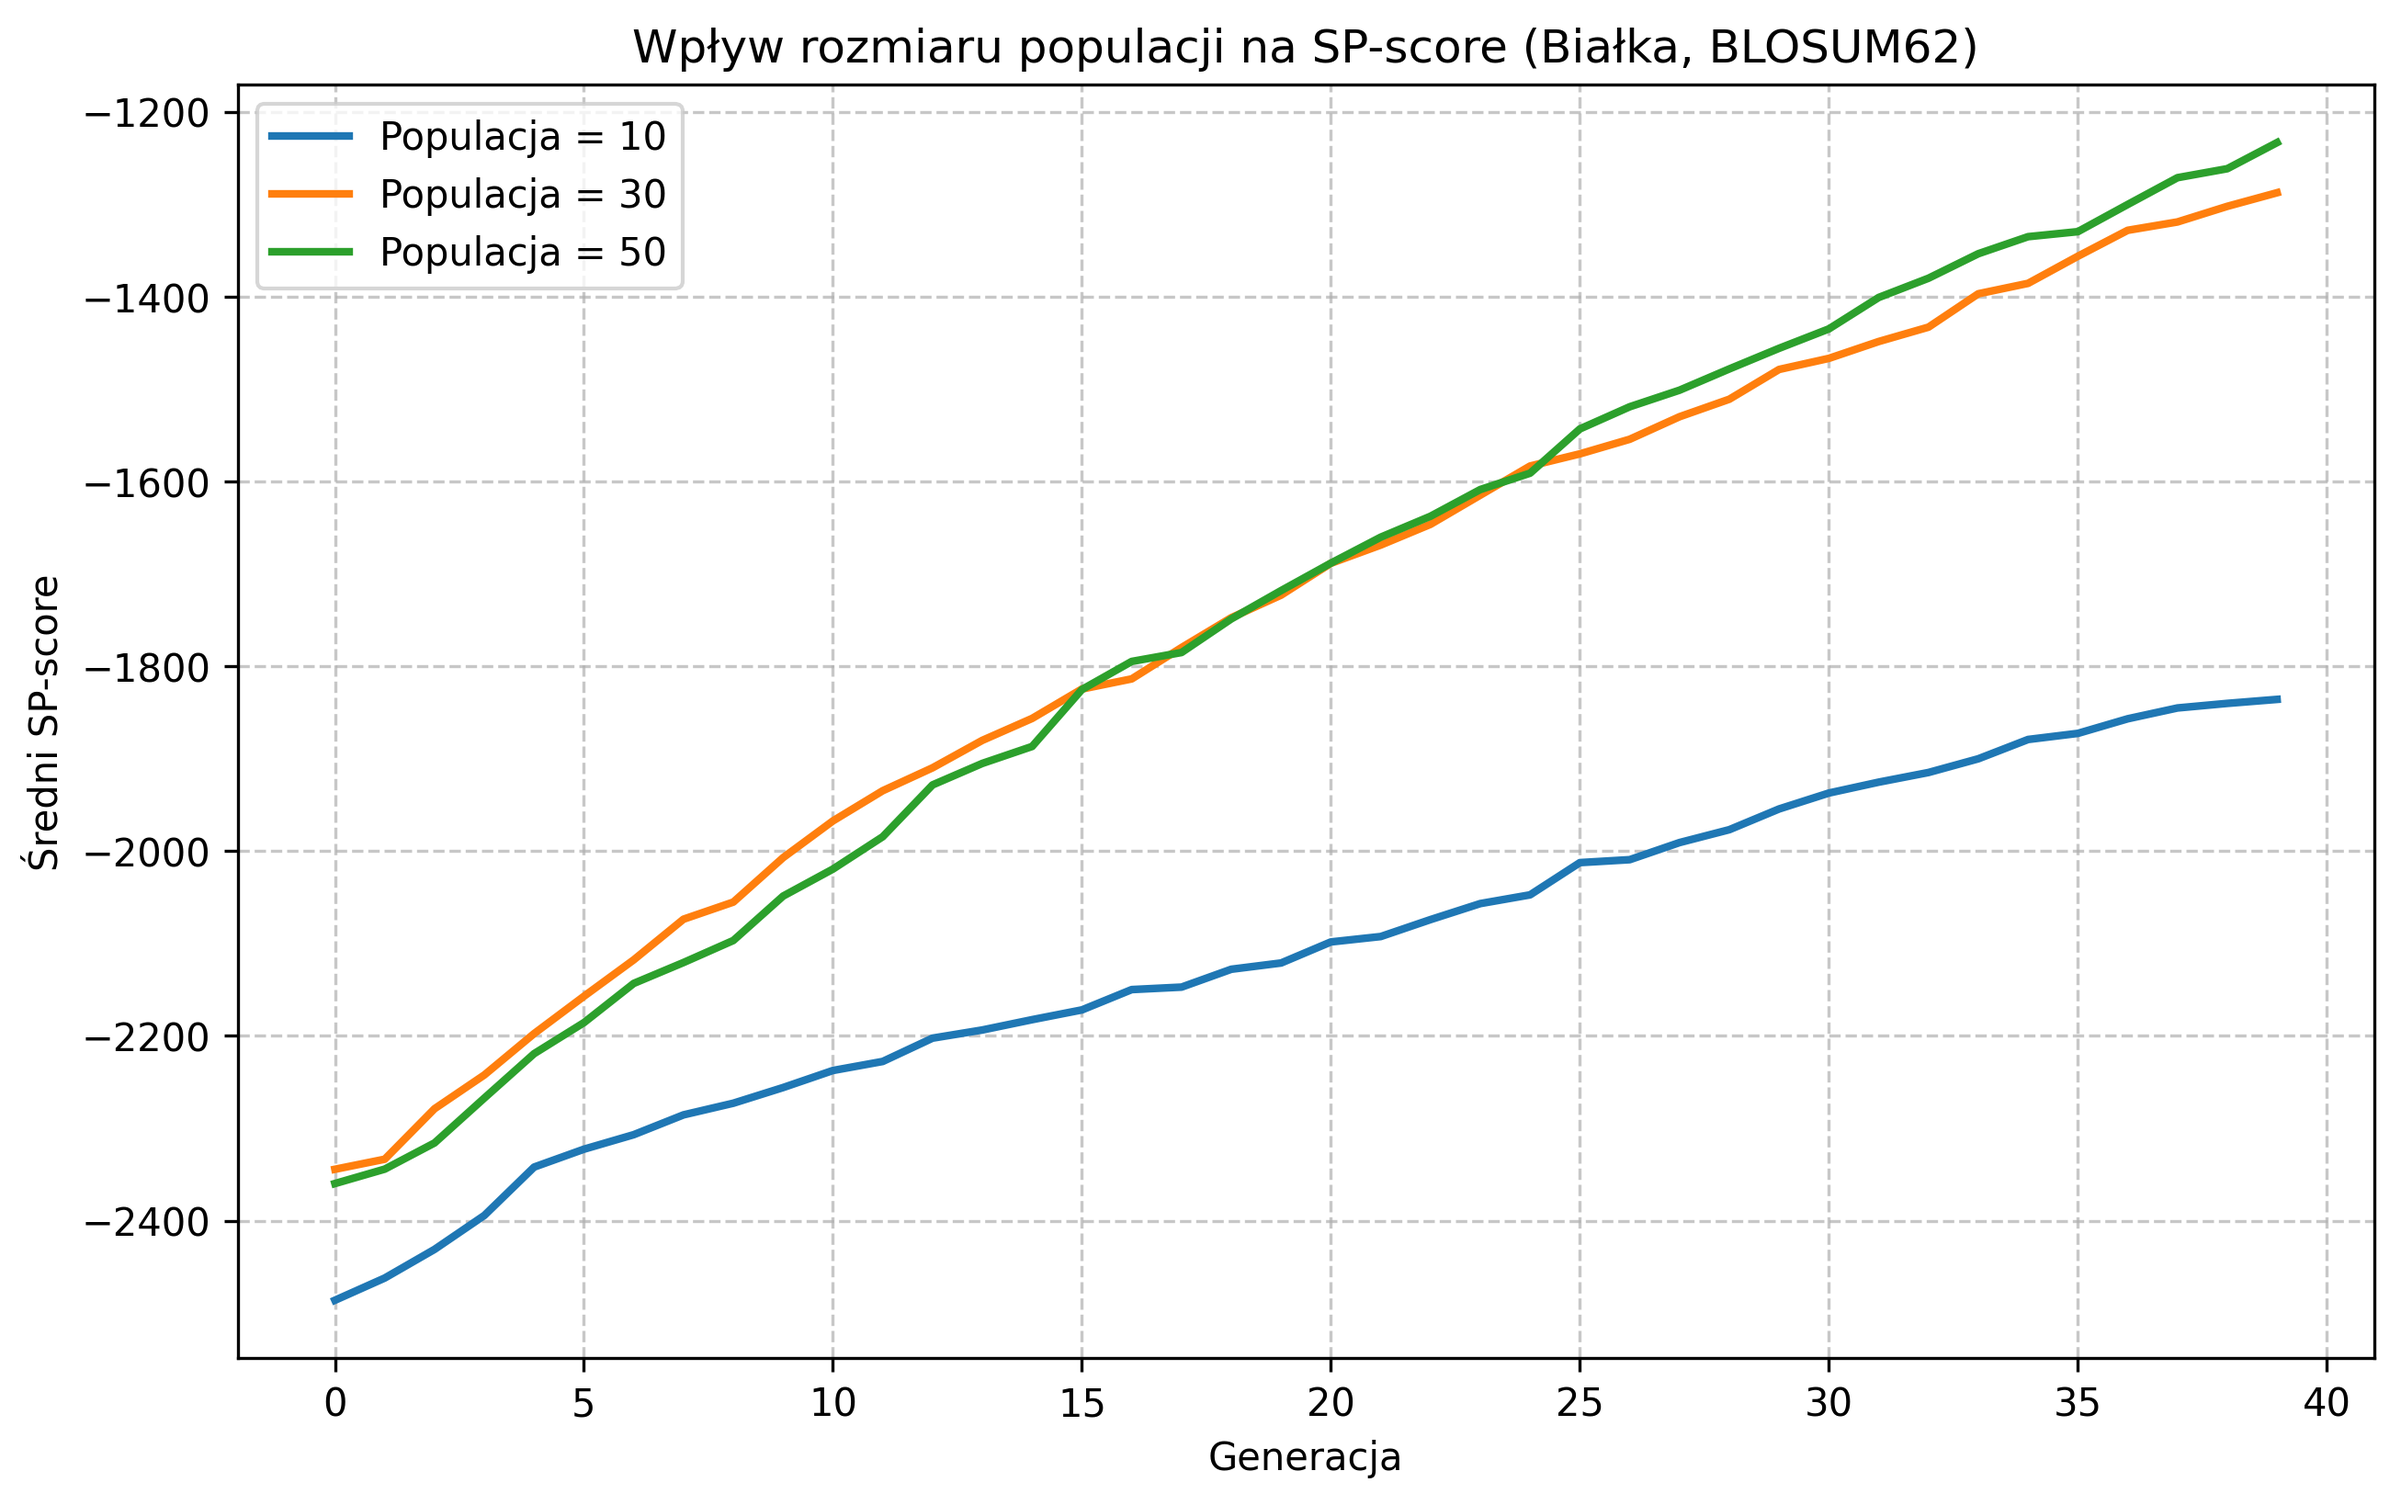
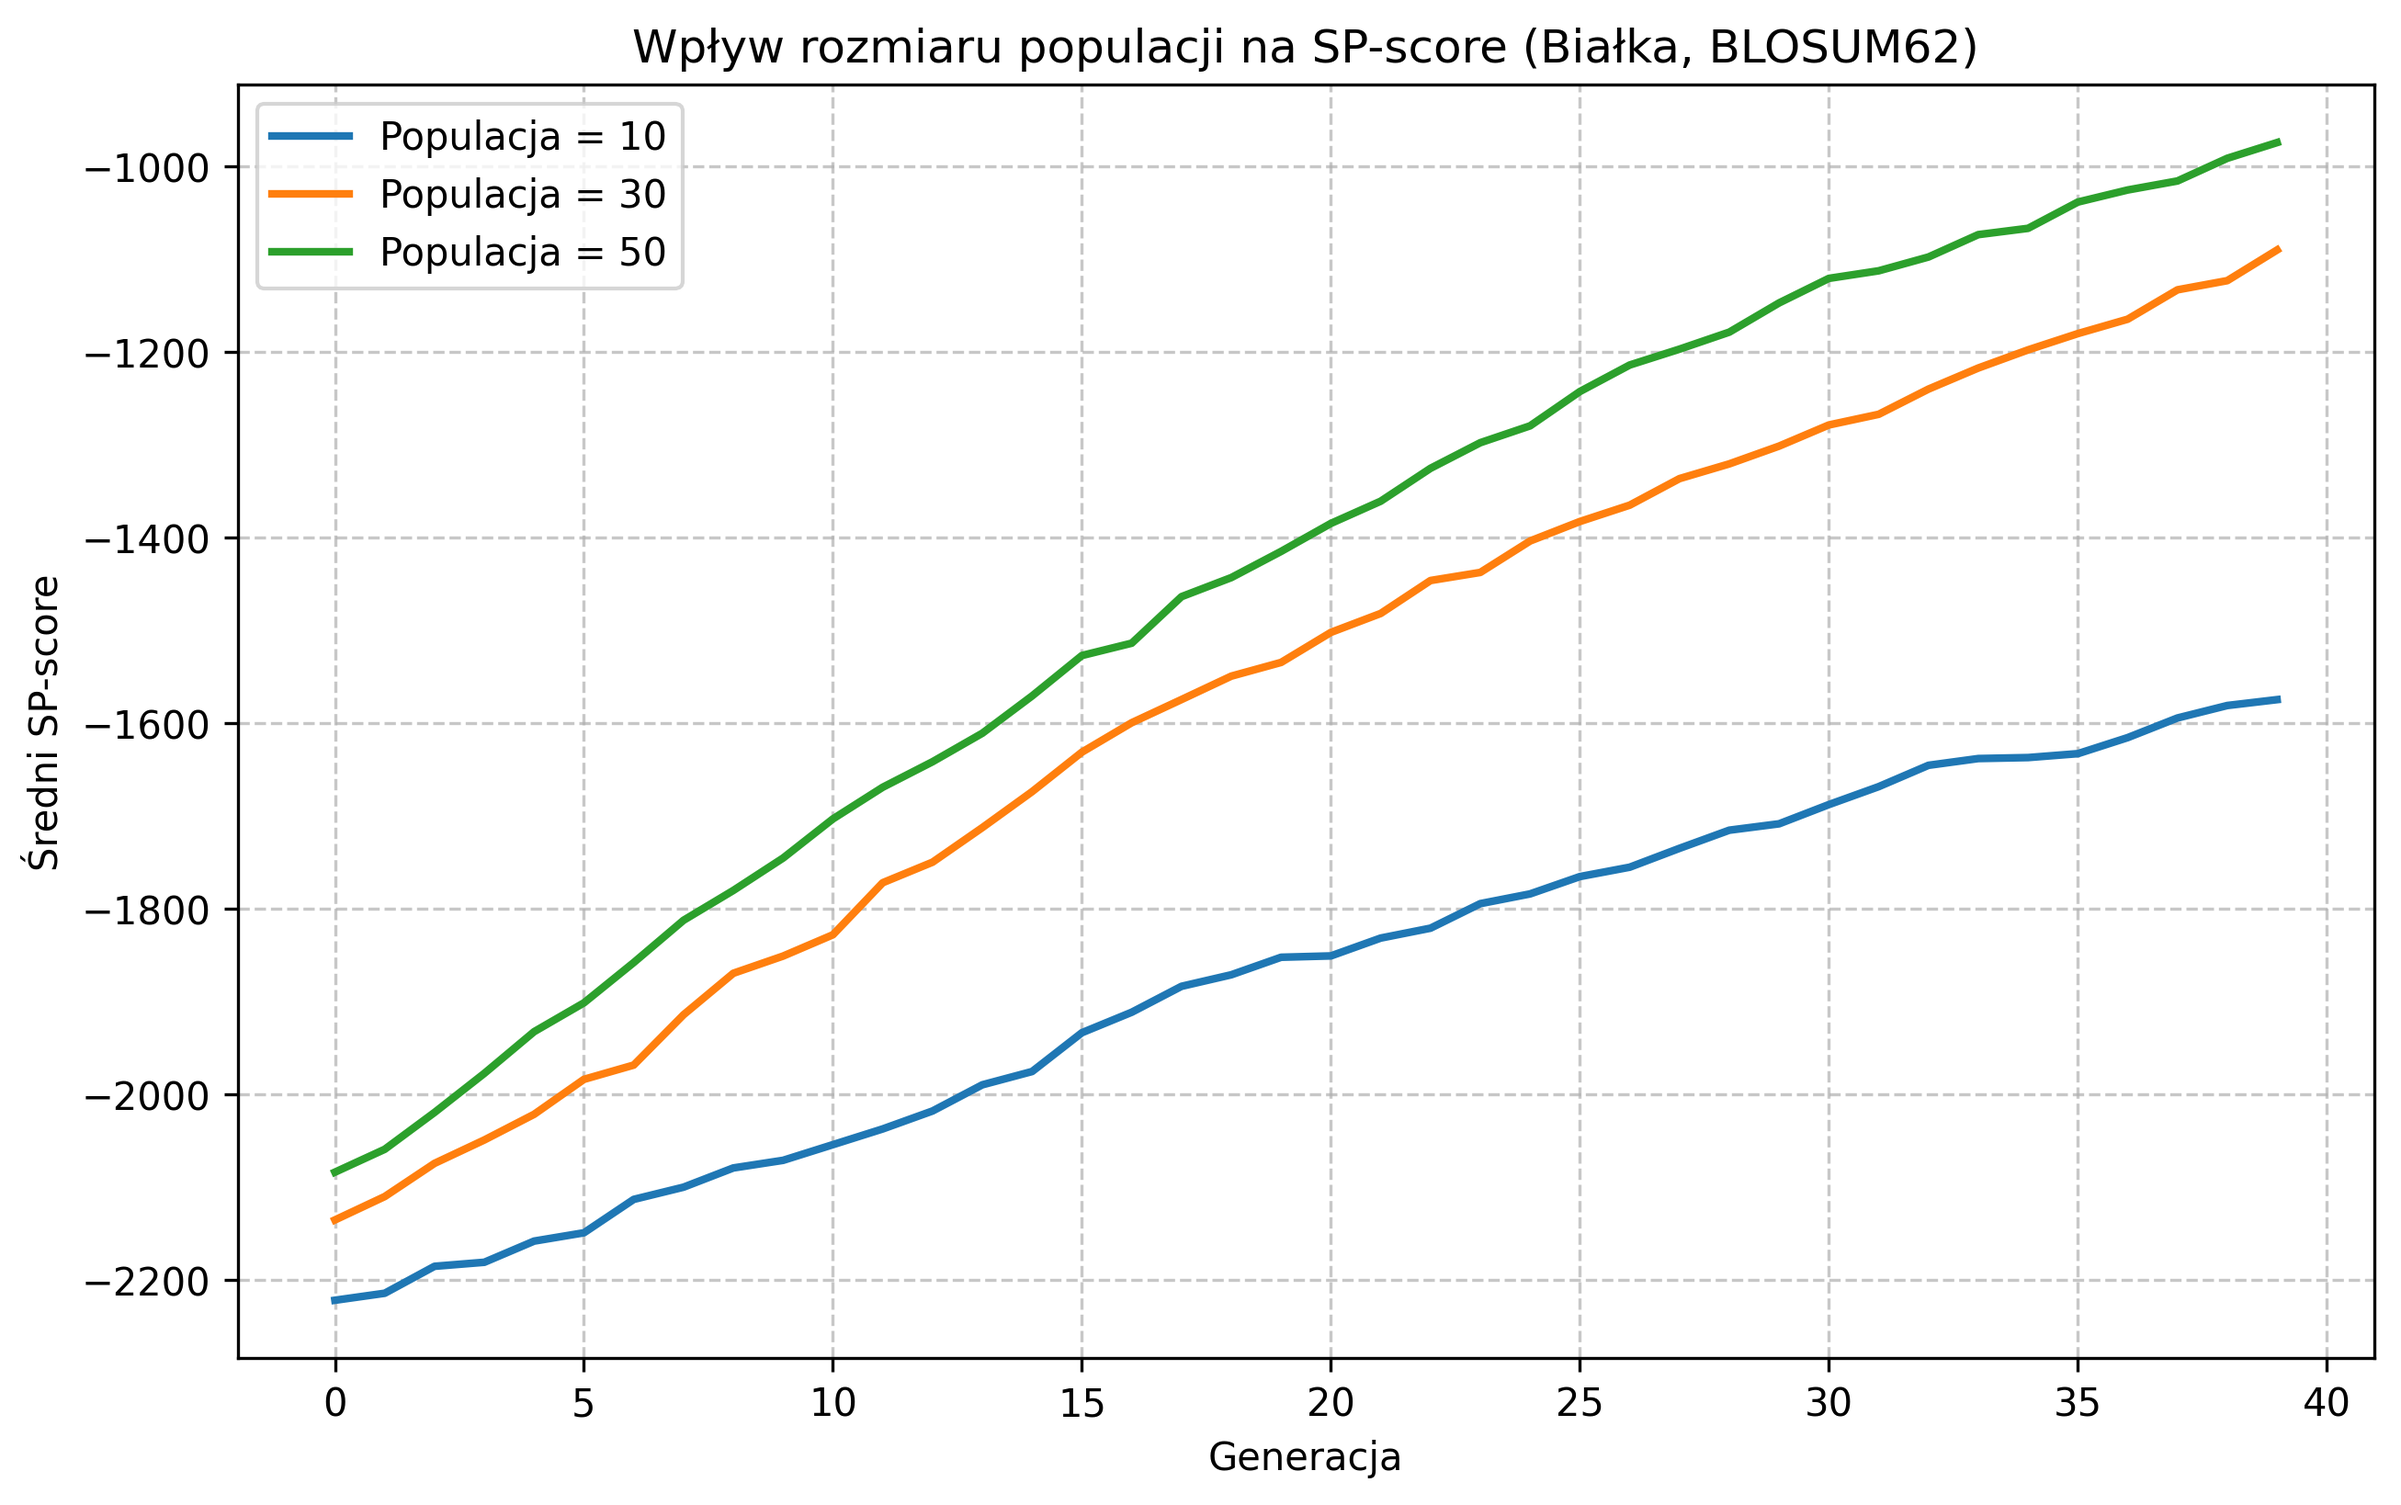
Dodano komentarze w main.py

diff --git a/main.py b/main.py
@@ -26,6 +26,10 @@ class GeneticAlgorithmMSA:
 
     def _get_substitution_score(self, a1, a2):
         """Zwraca wartość z macierzy BLOSUM62 dla pary aminokwasów."""
+        """
+        Funkcja pomocnicza sprawdzająca, ile punktów (dodatnich lub ujemnych)
+        należy przyznać za zestawienie dwóch konkretnych aminokwasów.
+        """
         # Jeśli któryś aminokwas wykracza poza uproszczoną macierz, domyślnie traktujemy jako mismatch
         if a1 in self.blosum62 and a2 in self.blosum62[a1]:
             return self.blosum62[a1][a2]
@@ -82,6 +86,11 @@ class GeneticAlgorithmMSA:
         return total_score
 
     def initialize_population(self):
+        """
+        Tworzy punkt startowy (pokolenie zerowe) algorytmu.
+        Wrzuca losowo luki ('-') do oryginalnych sekwencji, aż osiągną
+        one wymaganą długość, po czym zwraca listę wylosowanych osobników.
+        """
         population = []
         max_len = max(len(s) for s in self.sequences)
         target_len = int(max_len * 1.2) 
@@ -100,6 +109,10 @@ class GeneticAlgorithmMSA:
         return population
 
     def remove_empty_columns(self, alignment):
+        """
+        Funkcja sprzątająca (optymalizacyjna). Usuwa kolumny, w których dla
+        wszystkich sekwencji znajduje się wyłącznie znak luki, redukując długość.
+        """
         num_seqs = len(alignment)
         length = len(alignment[0])
         cols_to_keep = []
@@ -116,6 +129,11 @@ class GeneticAlgorithmMSA:
         return new_alignment
 
     def mutate(self, alignment):
+        """
+        Operator mutacji zapobiegający stagnacji algorytmu.
+        Z określonym prawdopodobieństwem wybiera losową sekwencję, wycina w niej
+        cały blok luk i przenosi go w inne, losowe miejsce.
+        """
         if random.random() > self.mutation_rate:
             return alignment
 
@@ -147,6 +165,11 @@ class GeneticAlgorithmMSA:
         return ["".join(seq) for seq in new_align]
 
     def crossover(self, parent1, parent2):
+        """
+        Operator krzyżowania łączący materiał genetyczny dwóch rozwiązań.
+        Znajduje bezpieczny punkt odcięcia (gdzie zużyto tę samą liczbę aminokwasów)
+        i skleja lewą połowę rodzica 1 z prawą połową rodzica 2.
+        """
         num_seqs = len(parent1)
         
         def get_states(parent):
@@ -184,6 +207,11 @@ class GeneticAlgorithmMSA:
         return child
 
     def run(self):
+        """
+        Główny silnik (pętla) algorytmu ewolucyjnego.
+        Odpowiada za inicjalizację, ocenę, sortowanie populacji, selekcję
+        najlepszych (elityzm) oraz tworzenie nowych pokoleń w zadanej liczbie cykli.
+        """
         population = self.initialize_population()
         history = []
         
